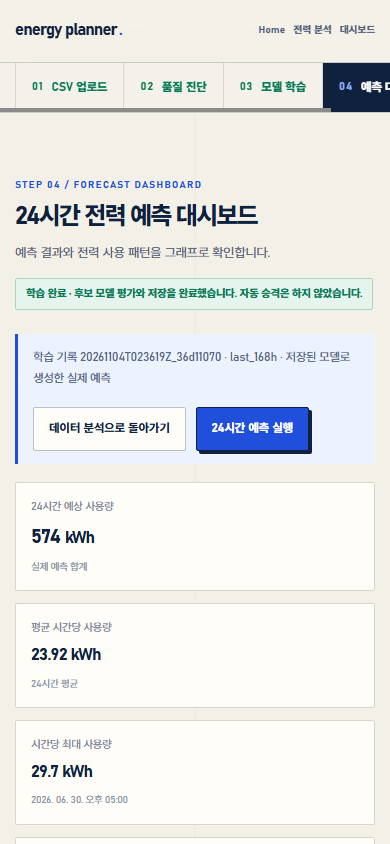
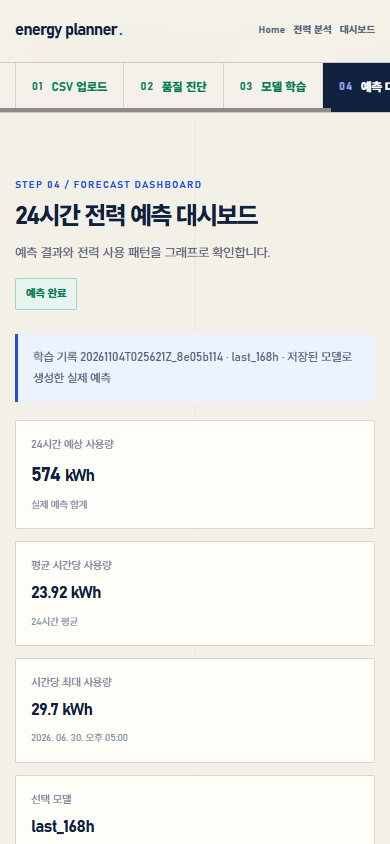
feat: redesign forecast dashboard readiness state

diff --git a/frontend/index.html b/frontend/index.html
@@ -47,21 +47,21 @@
     <section class="section workflow-panel" id="training" data-step-panel="3" tabindex="-1" aria-live="polite">
       <div class="section-heading"><div><div class="eyebrow">STEP 03 / MACHINE LEARNING</div><h2>XGBoost 모델 학습</h2><div class="sub">기준 모델과 Validation 성능을 비교하고 Test는 최종 평가에만 사용합니다.</div></div><span id="workspace-job-status" class="status">학습 대기</span></div>
       <div class="section-body"><div class="grid2 training-grid"><div class="panel"><h3 class="section-text">학습 설정</h3><div class="detail-row"><span>예측 대상</span><strong>향후 24시간 kWh</strong></div><div class="detail-row"><span>학습 모델</span><strong>XGBoost</strong></div><div class="detail-row"><span>데이터 분할</span><strong>시간순 분할</strong></div><div class="split" aria-label="Train, Validation, Test 시간순 분할"><span class="train-split">Train</span><span class="validation-split">Validation</span><span class="test-split">Test</span></div><p class="muted">Train은 학습, Validation은 모델 선택, Test는 최종 성능 검증에만 사용합니다.</p><div class="hint"><strong>ⓘ 데이터는 왜 나눠야 하나요?</strong><div>미래 정보를 미리 보는 데이터 누수를 방지하기 위해 시간순으로 분리합니다.</div></div></div>
-        <div class="panel training-status-panel"><div><h3 class="section-text">학습 진행 상태</h3><div id="training-placeholder" class="muted training-placeholder">STEP 02 품질 진단을 통과하면 학습을 시작할 수 있습니다.</div><div id="training-progress" hidden><div class="detail-row"><span id="training-stage">학습 작업을 준비하고 있습니다.</span><strong id="training-percent">0%</strong></div><div id="training-progressbar" class="train-track" role="progressbar" aria-label="XGBoost 모델 학습 진행률" aria-valuemin="0" aria-valuemax="100" aria-valuenow="0" aria-valuetext="학습 준비 0%"><div id="training-progress-fill" class="train-fill"></div></div><p class="muted progress-note">작업 단계 기준 진행률이며 실제 남은 시간과는 다를 수 있습니다.</p></div></div><div id="training-actions" class="actions training-actions"><button id="train" class="btn primary" type="button" disabled>XGBoost 학습 시작 ↗</button></div><p id="workspace-prediction-summary" class="notice">24시간 예측 실행 전입니다.</p></div></div>
+        <div class="panel training-status-panel"><div><h3 class="section-text">학습 진행 상태</h3><div id="training-progress"><div class="detail-row"><span id="training-stage" aria-live="polite">STEP 02 품질 진단을 통과하면 학습을 시작할 수 있습니다.</span><strong id="training-percent">0%</strong></div><div id="training-progressbar" class="train-track" role="progressbar" aria-label="XGBoost 모델 학습 진행률" aria-valuemin="0" aria-valuemax="100" aria-valuenow="0" aria-valuetext="학습 시작 전 0%"><div id="training-progress-fill" class="train-fill"></div></div><p class="muted progress-note">작업 단계 기준 진행률이며 실제 남은 시간과는 다를 수 있습니다.</p></div></div><div id="training-actions" class="actions training-actions"><button id="train" class="btn primary" type="button" disabled>XGBoost 학습 시작 ↗</button></div><p id="workspace-prediction-summary" class="notice">24시간 예측 실행 전입니다.</p></div></div>
         <div id="workspace-model-results" class="panel model-results" hidden><h3 class="section-text">Validation 성능 비교 <span class="status blue">실제 평가 결과</span></h3><div class="table-wrap"><table class="table"><thead><tr><th>모델</th><th>MAE / WAPE</th><th>결과</th></tr></thead><tbody><tr id="workspace-model-xgboost"><td><strong>XGBoost</strong></td><td id="workspace-metric-xgboost">평가 결과 없음</td><td>후보</td></tr><tr id="workspace-model-last-24h"><td>Last-24h</td><td id="workspace-metric-last-24h">평가 결과 없음</td><td>기준</td></tr><tr id="workspace-model-last-168h"><td>Last-168h</td><td id="workspace-metric-last-168h">평가 결과 없음</td><td>기준</td></tr></tbody></table></div><p id="test-evaluation-note" class="muted">Test는 Validation에서 선택한 모델의 최종 성능 확인에만 사용합니다.</p></div>
       </div>
     </section>
 
     <section class="section dashboard" id="dashboard" aria-labelledby="dashboard-title">
       <div class="section-heading"><div><div class="eyebrow">STEP 04 / FORECAST DASHBOARD</div><h2 id="dashboard-title">24시간 전력 예측 대시보드</h2><div class="sub">예측 결과와 전력 사용 패턴을 그래프로 확인합니다.</div></div><span id="job-status" class="status">결과 대기</span></div>
-      <div class="section-body"><p id="dashboard-error" class="error" role="alert" hidden></p><div class="notice dashboard-notice"><span id="sample-note">저장된 모델이 없다면 CSV를 업로드하고 모델을 먼저 준비해 주세요.</span><div class="actions"><button id="dashboard-empty-action" class="btn primary" type="button">CSV 업로드하러 가기</button><button id="return-workspace" class="btn" type="button" hidden>데이터 분석으로 돌아가기</button><button id="run-prediction" class="btn primary" type="button" hidden>24시간 예측 실행</button></div></div>
+      <div class="section-body"><p id="dashboard-error" class="error" role="alert" hidden></p><section id="dashboard-gate" class="panel dashboard-gate" aria-labelledby="dashboard-gate-title" aria-live="polite"><div class="dashboard-gate-copy"><h3 id="dashboard-gate-title">예측 결과를 만들기 위한 준비가 필요합니다.</h3><p id="dashboard-gate-description">CSV 업로드부터 모델 학습까지 순서대로 완료하면 실제 예측 결과가 표시됩니다.</p></div><ol id="dashboard-readiness" class="readiness-list"><li data-readiness-key="upload" data-state="current"><span class="readiness-mark" aria-hidden="true">01</span><span class="readiness-copy"><strong>CSV 업로드</strong><small>시간별 전력 사용량 데이터를 준비합니다.</small></span><span class="readiness-state">현재 단계</span></li><li data-readiness-key="quality" data-state="waiting"><span class="readiness-mark" aria-hidden="true">02</span><span class="readiness-copy"><strong>품질 진단</strong><small>기간, 결측과 시간 연속성을 확인합니다.</small></span><span class="readiness-state">대기</span></li><li data-readiness-key="training" data-state="waiting"><span class="readiness-mark" aria-hidden="true">03</span><span class="readiness-copy"><strong>모델 학습</strong><small>XGBoost와 기준 모델을 비교합니다.</small></span><span class="readiness-state">대기</span></li><li data-readiness-key="prediction" data-state="waiting"><span class="readiness-mark" aria-hidden="true">04</span><span class="readiness-copy"><strong>24시간 예측</strong><small>준비된 모델로 실제 결과를 생성합니다.</small></span><span class="readiness-state">대기</span></li></ol><div class="actions dashboard-gate-actions"><button id="dashboard-empty-action" class="btn primary" type="button" data-target="upload">CSV 업로드 시작</button><button id="run-prediction" class="btn primary" type="button" hidden>24시간 예측 실행</button></div></section><div id="dashboard-results" hidden><div class="notice dashboard-notice"><span id="sample-note">저장된 모델로 생성한 실제 예측 결과입니다.</span></div>
         <div class="grid4 stats forecast-stats"><div class="panel metric"><div class="label">24시간 예상 사용량</div><div class="value" id="total-forecast">—</div><div class="foot">실제 예측 합계</div></div><div class="panel metric"><div class="label">평균 시간당 사용량</div><div class="value compact" id="average-forecast">예측 전</div><div class="foot">24시간 평균</div></div><div class="panel metric"><div class="label">시간당 최대 사용량</div><div class="value compact" id="peak-forecast">예측 전</div><div class="foot" id="peak-time">피크 시간 미정</div></div><div class="panel metric"><div class="label">선택 모델</div><div class="value compact" id="selected-model">—</div><div class="foot ok">Validation 기준</div></div></div>
         <div class="panel chart-panel"><div class="section-heading panel-heading"><div><h3 class="section-text">향후 24시간 전력 사용량</h3><div class="sub"><span id="forecast-reference">예측 시작 기준: 미설정</span> · <span id="forecast-timezone">시간대: 미설정</span></div></div><span id="sample-tag" class="status">예측 결과 없음</span></div><div class="chart-wrap"><svg class="chart" id="forecast-chart" viewBox="0 0 720 270" role="img" aria-label="24시간 전력 예측 그래프"></svg><div id="forecast-tooltip" class="tooltip" role="status" hidden></div></div><div class="chart-legend"><span><i class="actual"></i>과거 실측</span><span><i class="forecast"></i>미래 예측</span></div><details class="forecast-table-details"><summary>24시간 예측값을 표로 보기</summary><div class="data-table-scroll"><table><thead><tr><th scope="col">예측 시각</th><th scope="col">사용량(kWh)</th></tr></thead><tbody id="forecast-table-body"></tbody></table></div></details></div>
         <div class="grid2 usage-grid"><div class="panel"><div class="section-heading panel-heading"><div><h3 class="section-text" id="usage-analysis-title">최근 7일 일별 사용량</h3><div class="sub">업로드 데이터 기준</div></div><span id="actual-summary-label" class="status">예측 후 표시</span></div><div class="chart-wrap"><svg class="chart" id="daily-usage-chart" viewBox="0 0 520 240" role="img" aria-label="최근 7일 일별 전력 사용량 막대 그래프"></svg><div id="usage-tooltip" class="tooltip" role="status" hidden></div></div></div><div class="panel"><h3 class="section-text">시간대별 사용 비중</h3><div class="sub">최근 7일 소비량 분포</div><div class="period-composition"><div id="period-donut" class="donut" role="img" aria-label="시간대별 사용량 구성비"></div><ul id="period-composition-list" class="period-list"></ul></div></div></div>
         <div class="panel monthly-usage"><h3 class="section-text">최근 월별 사용량</h3><div id="monthly-usage-list" class="monthly-usage-list"></div></div>
         <div class="panel ai-analysis-panel"><div class="section-heading panel-heading"><div><h3 class="section-text" id="ai-analysis-title">AI 전력 사용 분석</h3><div class="sub">선택 기능 · OpenAI API</div></div><button id="ai-analyze" class="btn" type="button" disabled>AI 분석하기</button></div><p id="ai-analysis-status" class="notice" aria-live="polite">24시간 예측을 먼저 실행해 주세요.</p><div id="ai-analysis-result" class="grid2 ai-analysis-result" hidden><section><h4>예측 패턴 요약</h4><p id="ai-summary"></p></section><section><h4>피크 시간 해석</h4><p id="ai-peak"></p></section><section><h4>관찰된 패턴</h4><ul id="ai-patterns"></ul></section><section><h4>참고사항</h4><ul id="ai-cautions"></ul></section></div><p class="muted">원본 CSV는 OpenAI API로 전송하지 않습니다. 현재 예측의 24개 값과 최소 집계 정보만 전송합니다.</p></div>
         <div class="grid2 model-detail-grid"><div class="panel"><h3 class="section-text">모델 성능 비교</h3><div id="model-xgboost" class="detail-row"><span>XGBoost</span><strong id="metric-xgboost">평가 결과 없음</strong></div><div id="model-last-24h" class="detail-row"><span>Last-24h</span><strong id="metric-last-24h">평가 결과 없음</strong></div><div id="model-last-168h" class="detail-row"><span>Last-168h</span><strong id="metric-last-168h">평가 결과 없음</strong></div><p class="muted">모델은 Validation으로 선택하고 Test는 최종 성능 확인에만 사용합니다.</p></div><div class="panel"><h3 class="section-text">모델 상세 정보</h3><dl class="model-dl"><dt>상태</dt><dd id="model-state">저장된 모델 없음</dd><dt>학습 기록 ID</dt><dd id="run-id">—</dd><dt>모델 입력</dt><dd>과거 168시간 × 6개 특성</dd><dt>예측 구간</dt><dd>향후 24시간</dd><dt>자동 재학습</dt><dd>사용하지 않음</dd></dl></div></div>
-      </div>
+      </div></div>
     </section>
   </main>
   <footer class="disclaimer">ENERGY PLANNER · 아이보리 통합형 인터랙티브 · 로컬 백엔드 연결</footer>

diff --git a/frontend/reference-system.css b/frontend/reference-system.css
@@ -174,7 +174,6 @@ a { color: inherit; }
 .split-grid strong { display: block; margin: 6px 0; overflow-wrap: anywhere; font-size: 11px; }
 
 .training-status-panel { display: flex; flex-direction: column; justify-content: space-between; }
-.training-placeholder { min-height: 64px; }
 .training-actions { margin-top: 20px; }
 .train-track { height: 8px; margin-block: 14px; overflow: hidden; background: #e4e6e5; }
 .train-fill { width: 0; height: 100%; background: var(--blue); transition: width .3s ease; }
@@ -193,8 +192,28 @@ a { color: inherit; }
 .table th { color: #8291a5; font-size: 11px; }
 .table tr.selected { background: #edf2ff; color: var(--blue-deep); }
 
-.dashboard-notice { display: flex; align-items: center; justify-content: space-between; gap: 18px; margin-bottom: 18px; }
-.dashboard-notice .actions { flex: 0 0 auto; }
+.dashboard-gate { min-height: 430px; display: flex; flex-direction: column; justify-content: center; padding: clamp(24px, 4vw, 46px); border-color: #bfc7d2; }
+.dashboard-gate-copy { max-width: 680px; }
+.dashboard-gate-copy h3 { max-width: 24ch; margin: 0; font-size: clamp(22px, 2.4vw, 32px); line-height: 1.25; letter-spacing: -.035em; text-wrap: balance; }
+.dashboard-gate-copy p { max-width: 62ch; margin: 10px 0 0; color: var(--sub); line-height: 1.75; }
+.readiness-list { margin: 30px 0 0; padding: 0; list-style: none; border-top: 1px solid var(--line); }
+.readiness-list li { display: grid; grid-template-columns: 42px minmax(0, 1fr) auto; align-items: center; gap: 16px; min-height: 72px; border-bottom: 1px solid var(--line); }
+.readiness-mark { display: grid; width: 32px; height: 32px; place-items: center; border: 1px solid var(--line); color: var(--sub); font-size: 10px; font-weight: 850; font-variant-numeric: tabular-nums; }
+.readiness-copy { min-width: 0; }
+.readiness-copy strong, .readiness-copy small { display: block; }
+.readiness-copy strong { font-size: 13px; }
+.readiness-copy small { margin-top: 3px; color: var(--sub); font-size: 11px; line-height: 1.55; }
+.readiness-state { min-width: 58px; color: var(--sub); font-size: 11px; font-weight: 800; text-align: right; }
+.readiness-list li[data-state="complete"] .readiness-mark { border-color: #9bcbb8; background: var(--success-soft); color: var(--success); }
+.readiness-list li[data-state="complete"] .readiness-state { color: var(--success); }
+.readiness-list li[data-state="current"] .readiness-mark, .readiness-list li[data-state="ready"] .readiness-mark { border-color: #9fb5f3; background: #e9efff; color: var(--blue); }
+.readiness-list li[data-state="current"] .readiness-state, .readiness-list li[data-state="ready"] .readiness-state { color: var(--blue); }
+.readiness-list li[data-state="in-progress"] .readiness-mark { border-color: #e6c88e; background: var(--warning-soft); color: var(--warning); }
+.readiness-list li[data-state="in-progress"] .readiness-state { color: var(--warning); }
+.readiness-list li[data-state="fail"] .readiness-mark { border-color: #e9b6af; background: var(--danger-soft); color: var(--danger); }
+.readiness-list li[data-state="fail"] .readiness-state { color: var(--danger); }
+.dashboard-gate-actions { margin-top: 24px; }
+.dashboard-notice { margin-bottom: 18px; }
 .forecast-stats { margin-bottom: 18px; }
 .chart-panel, .usage-grid, .monthly-usage, .ai-analysis-panel, .model-detail-grid { margin-top: 18px; }
 .panel-heading { display: flex; align-items: flex-start; justify-content: space-between; gap: 18px; margin-bottom: 16px; }
@@ -259,6 +278,8 @@ a { color: inherit; }
   .section h2 { font-size: 28px; }
   .panel { padding: 18px; }
   .dashboard-notice { align-items: flex-start; flex-direction: column; }
+  .dashboard-gate { min-height: 0; padding: 24px 20px; }
+  .readiness-list li { grid-template-columns: 34px minmax(0, 1fr) auto; gap: 10px; }
   .period-composition { grid-template-columns: 130px minmax(0, 1fr); }
   .donut { width: 130px; height: 130px; }
   .status { white-space: normal; }
@@ -283,6 +304,8 @@ a { color: inherit; }
   .period-composition { grid-template-columns: 1fr; justify-items: center; }
   .period-list { width: 100%; }
   .detail-row { align-items: flex-start; flex-direction: column; gap: 4px; }
+  .readiness-list li { grid-template-columns: 34px minmax(0, 1fr); padding-block: 12px; }
+  .readiness-state { grid-column: 2; min-width: 0; text-align: left; }
   .model-dl { grid-template-columns: 1fr; }
   .model-dl dd { text-align: left; }
 }
